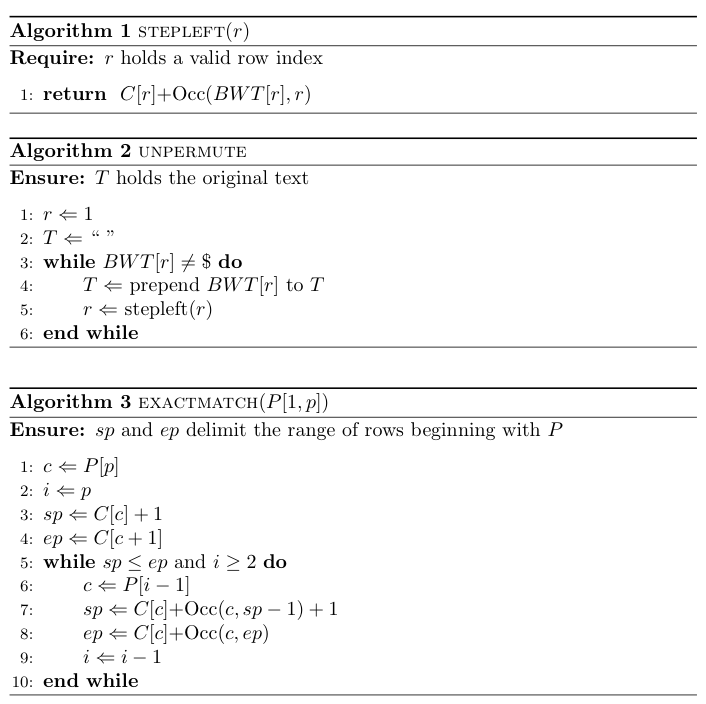
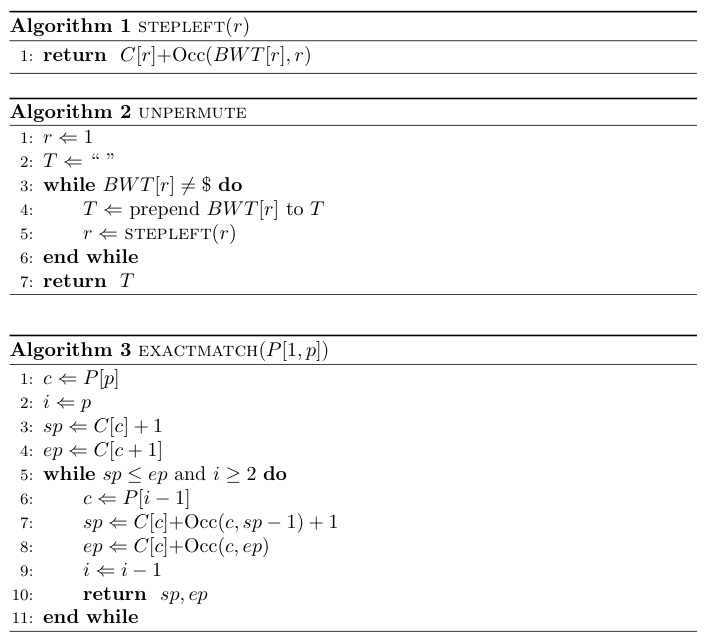
*** empty log message ***

Changed region(s): [[0.0, 0.0, 0.9972, 0.9969], [0.4363, 0.3738, 0.4674, 0.405], [0.4051, 0.405, 0.4363, 0.4361]]

diff --git a/papers/algtex/bwtalgs.tex b/papers/algtex/bwtalgs.tex
@@ -11,8 +11,6 @@
 \begin{algorithm}[stepleft]
 \caption{$\stepleft(r)$}\label{alg:stepleft} 
 \begin{algorithmic}[1] 
-\REQUIRE $r$ holds a valid row index 
-\medskip
 \RETURN $C[r] + $Occ$(BWT[r], r)$
 \end{algorithmic} 
 \end{algorithm} 
@@ -20,22 +18,19 @@
 \begin{algorithm}[unpermute]
 \caption{$\unpermute$}\label{alg:unpermute} 
 \begin{algorithmic}[1] 
-\ENSURE $T$ holds the original text 
-\medskip 
 \STATE $r \Leftarrow 1$
 \STATE $T \Leftarrow $ `` ''
 \WHILE {$BWT[r] \neq \$$}
 \STATE $T \Leftarrow $ prepend $BWT[r]$ to $T$
 \STATE $r \Leftarrow $ {\sc stepleft}$(r)$
 \ENDWHILE
+\RETURN $T$
 \end{algorithmic} 
 \end{algorithm} 
 
 \begin{algorithm}[exactmatch]
 \caption{$\exactmatch(P[1,p])$}\label{alg:exactmatch} 
 \begin{algorithmic}[1] 
-\ENSURE $sp$ and $ep$ delimit the range of rows beginning with $P$
-\medskip 
 \STATE $c \Leftarrow P[p]$
 \STATE $i \Leftarrow p$
 \STATE $sp \Leftarrow C[c]+1$
@@ -46,6 +41,7 @@
 \STATE $ep \Leftarrow C[c] + $Occ$(c, ep)$
 \STATE $i \Leftarrow i-1$
 \ENDWHILE
+\RETURN $sp, ep$
 \end{algorithmic} 
 \end{algorithm} 
 
